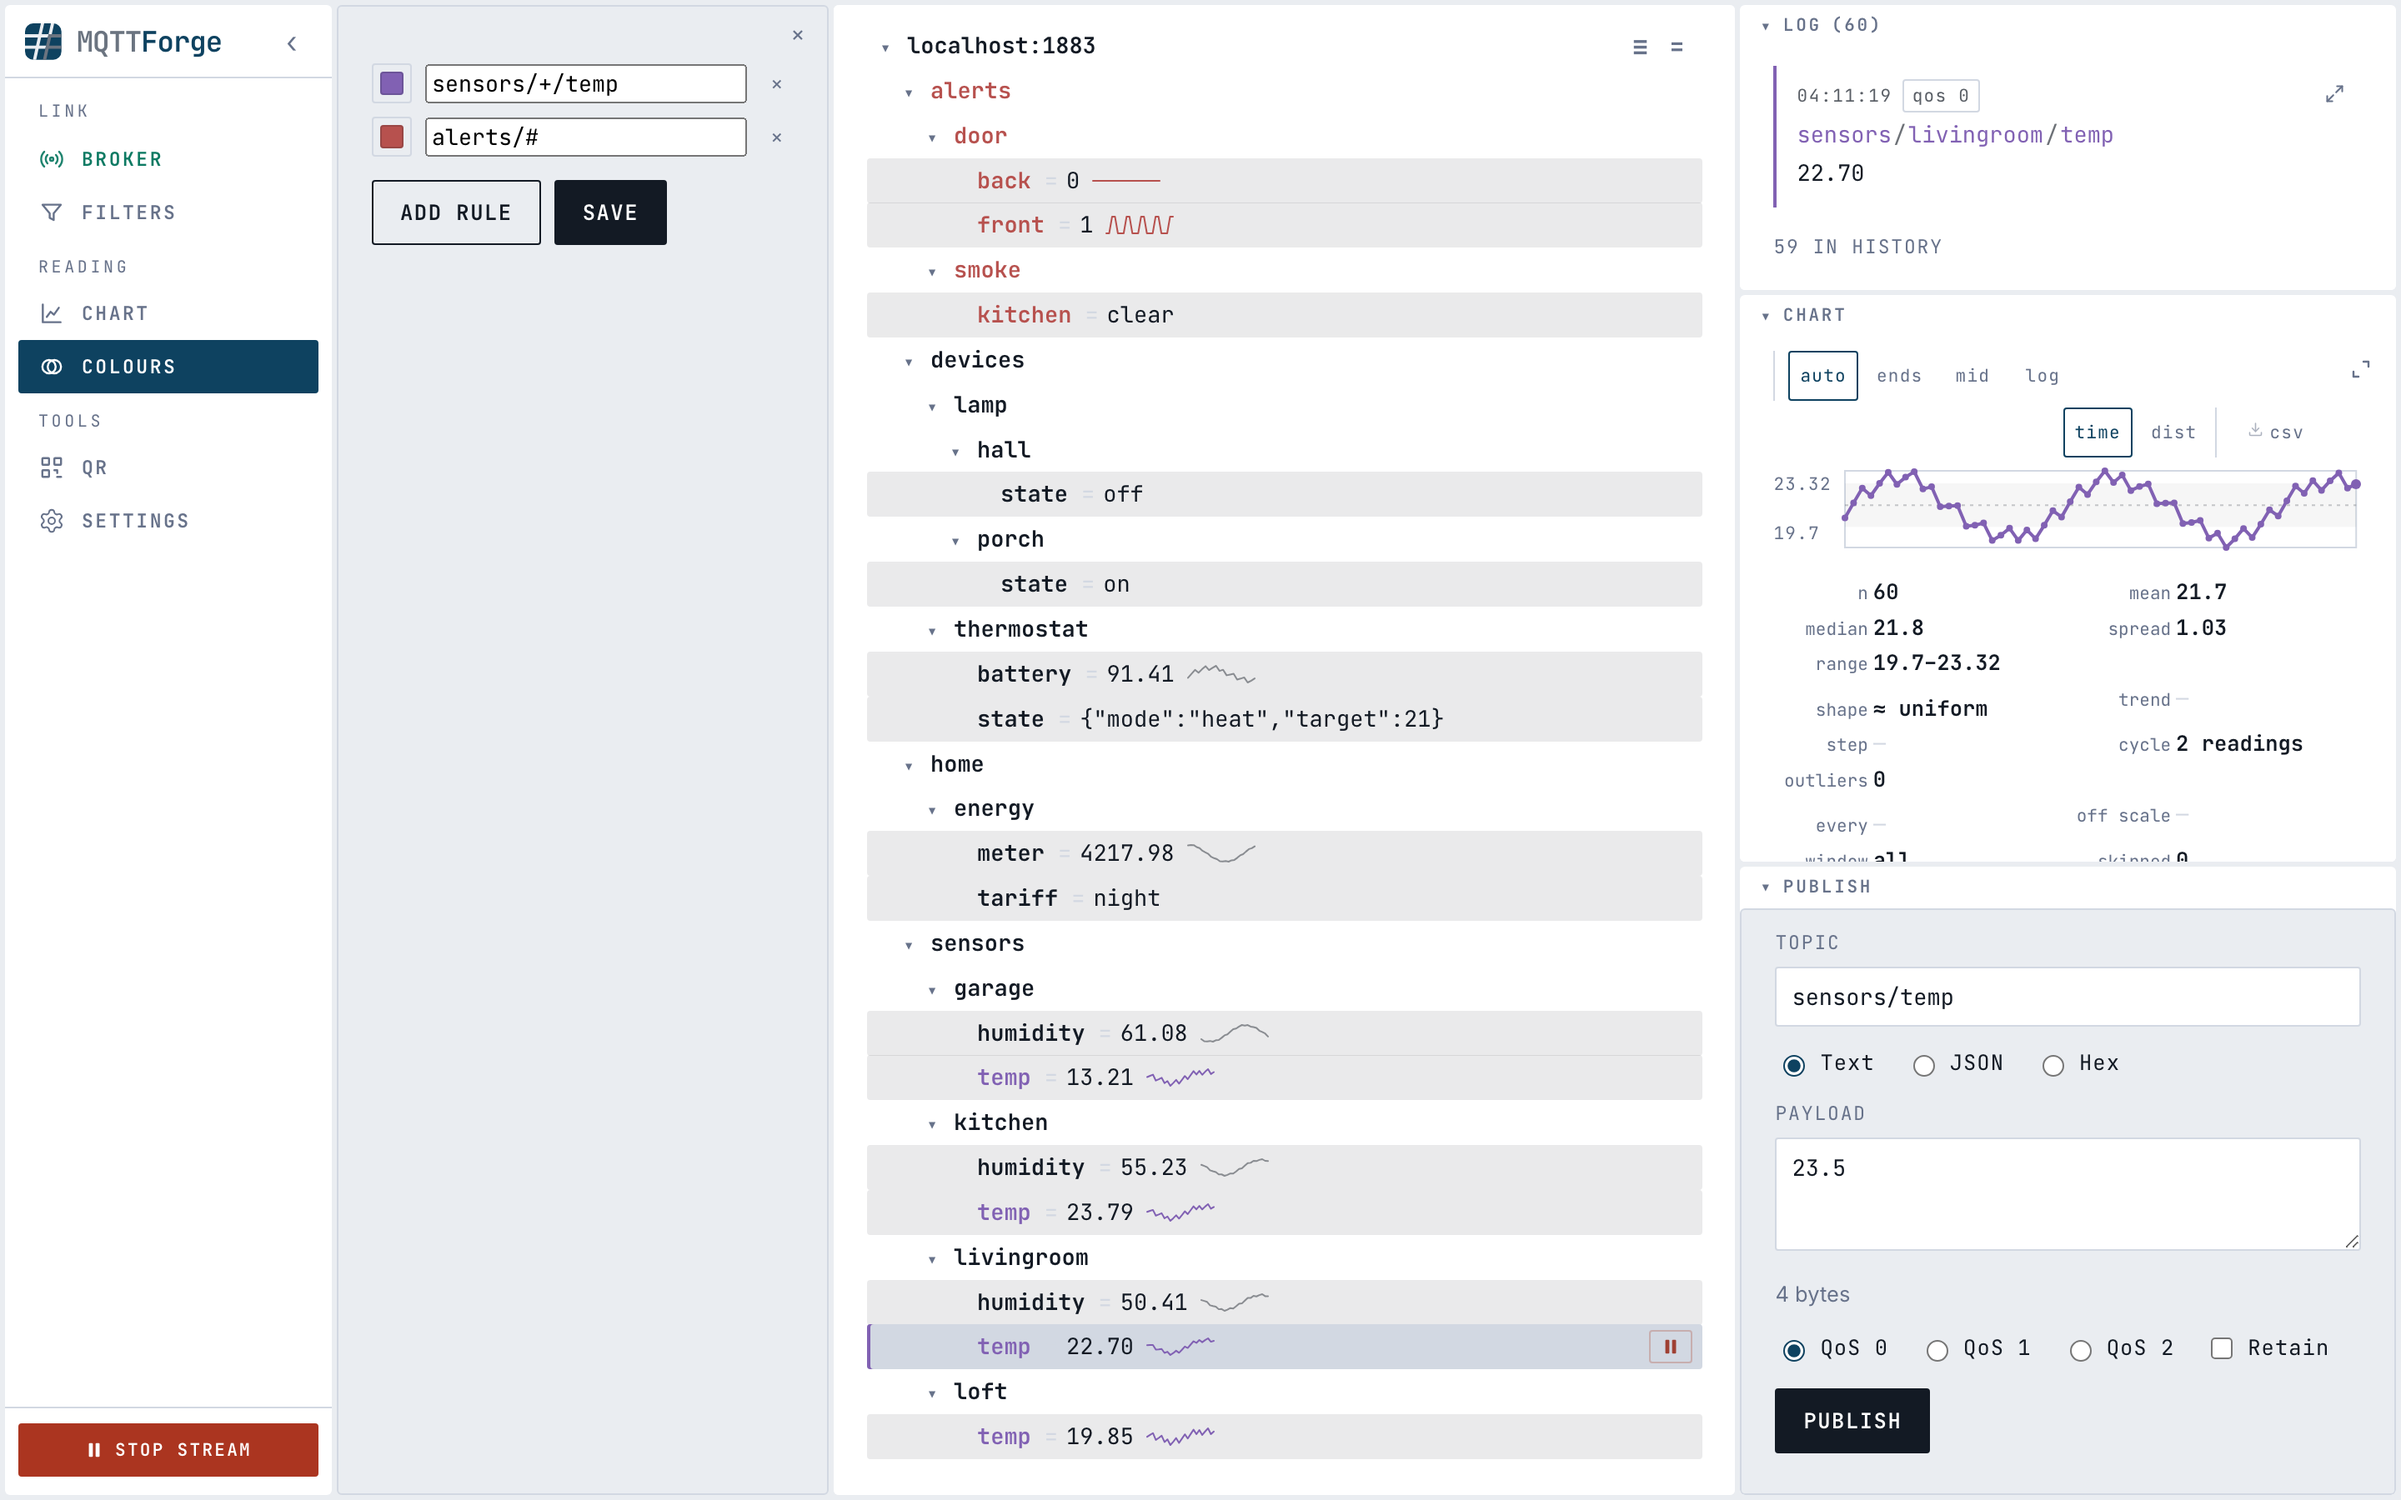
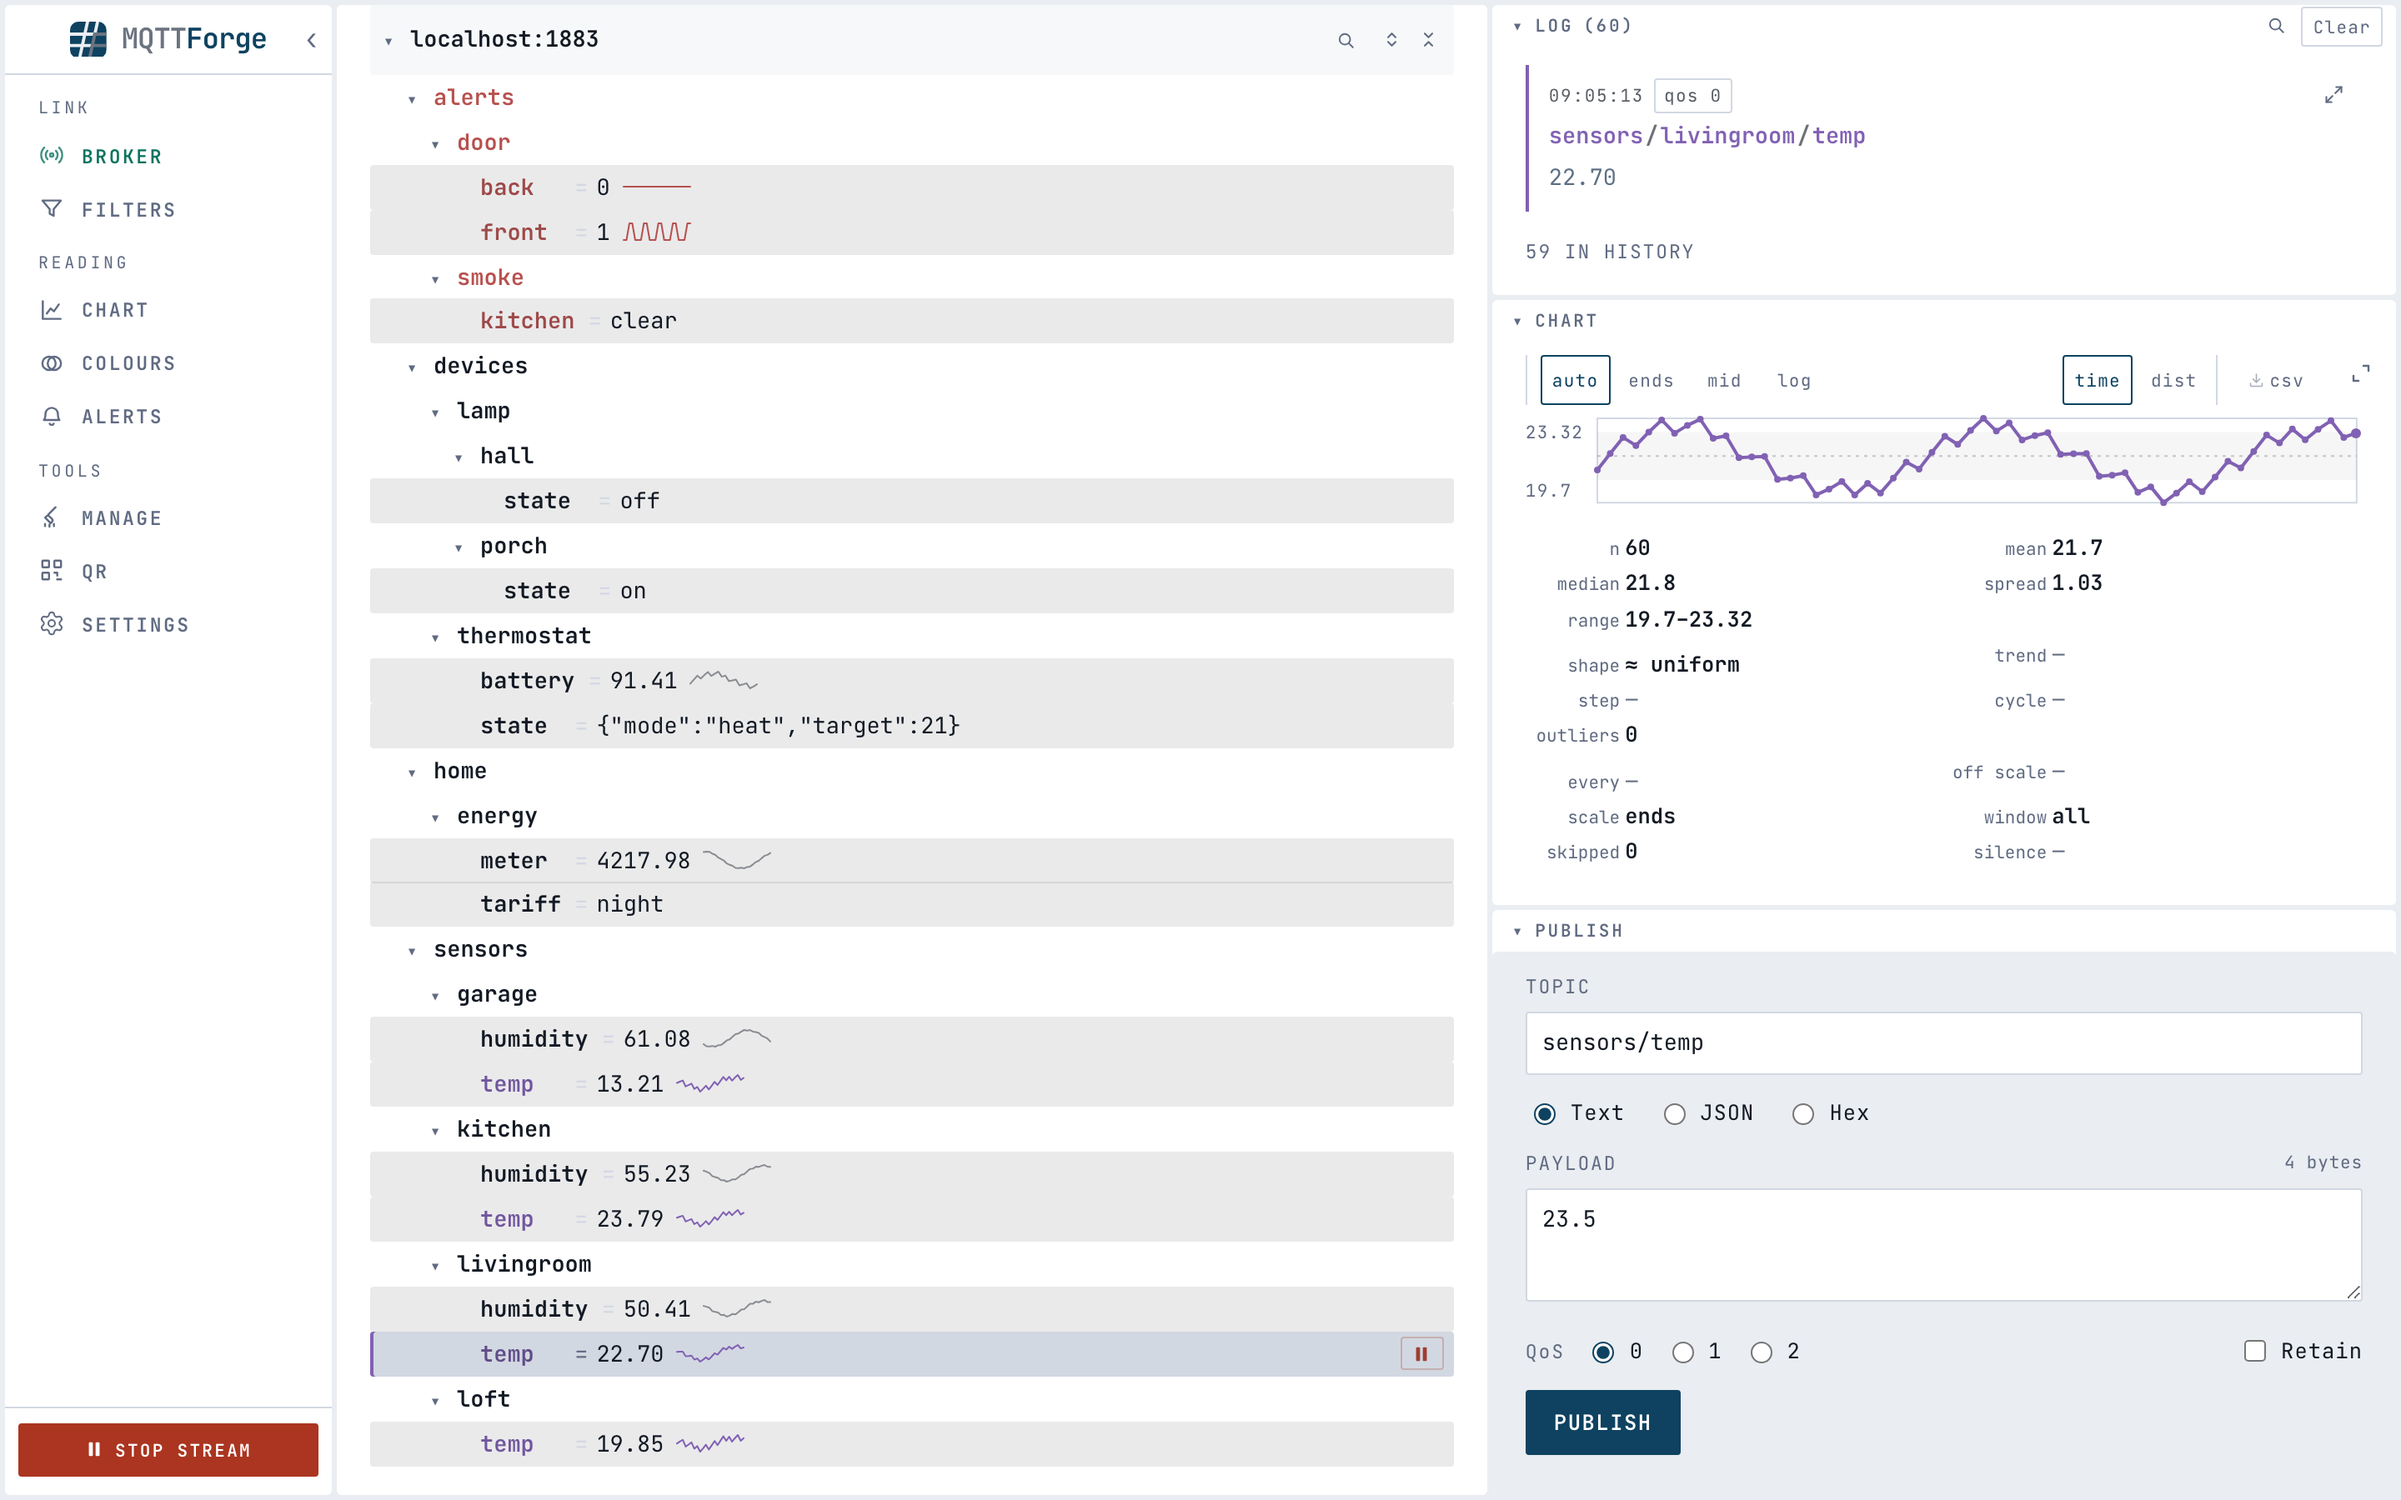
docs: pictures of the console as it is now, and one of Alerts
The four pictures were two weeks and two hundred commits old: no Alerts or Manage on the rail,
the old publish form, no search in the tree or the log. All four are shot again from the same
renderer pages at the same size. Colours shows what the rules paint, because the panel now takes
the whole workspace and a picture of it alone is a form with two lines in it.

Alerts gets the picture it did not have: the panel over a home broker's rules, with three of
them ringing on the rail.

diff --git a/README.md b/README.md
@@ -180,7 +180,7 @@ A rule can carry a second colour for the message under the topic. Most rules do 
 what tells a scrolling log apart, and the payload stays in the console's own ink. Give one to the
 rule whose payloads you are actually reading.
 
-![The Colours panel and the tree it paints](.github/assets/colours.png)
+![Two colour rules painting the tree, the log and the chart](.github/assets/colours.png)
 
 ## Alerts
 
@@ -193,6 +193,8 @@ fields its condition needs and nothing else. The panel lists the rules and what 
 seeing — how many topics it covers, how many readings it has read, when it last fired. It is
 about what is being watched for; how many alarms are ringing is the count on the **Alerts**
 button in the rail.
+
+![The Alerts panel watching a home broker](.github/assets/alerts.png)
 
 A rule subscribes its own filter. Alerting works with the console shut, and in a container with
 no browser pointed at it at all: the Docker image dials the saved broker as it starts when a
